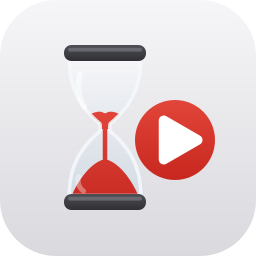
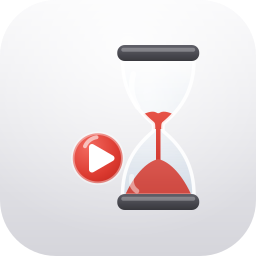
Liquid Glass styling; play badge smaller at lower-left golden point
Emulate the Liquid Glass look in the artwork: frosted translucent glass
with inner glows, rim lights, glassy badge (gradients only, no filters).
Recompose per the golden ratio: hourglass axis on the right golden line
(x=633), play badge on the lower-left golden point (391,633), scaled
down by phi (r 160 -> 99, stroke 40 -> 24).

Changed region(s): [[0.25, 0.375, 0.8438, 0.8438], [0.25, 0.1562, 0.7812, 0.25]]

diff --git a/README.md b/README.md
@@ -84,10 +84,13 @@ resets every time Safari quits. To make it permanent:
   Macs.
 
 ## Notes
-- Icons: the artwork is an original illustration — a realistic hourglass
-  (graphite caps, translucent glass, red sand) on a neutral background with a
-  red play badge at its side. It deliberately does **not** reproduce the
-  trademarked YouTube logo.
+- Icons: the artwork is an original illustration in the Liquid Glass style —
+  a realistic hourglass (graphite caps, translucent glass with inner glows,
+  red sand) on a neutral background, with a smaller glassy play badge at the
+  lower left. The composition follows the golden ratio: the hourglass axis
+  sits on the right golden line (x=633/1024) and the badge on the lower-left
+  golden point (391,633), scaled down by φ. It deliberately does **not**
+  reproduce the trademarked YouTube logo.
   - `icon.svg` — rounded-tile variant used for the web-extension icons
     (Safari toolbar / Extensions pane, via `manifest.json`).
   - `icon-tahoe.svg` — **full-bleed square** artwork for the macOS app icon,
